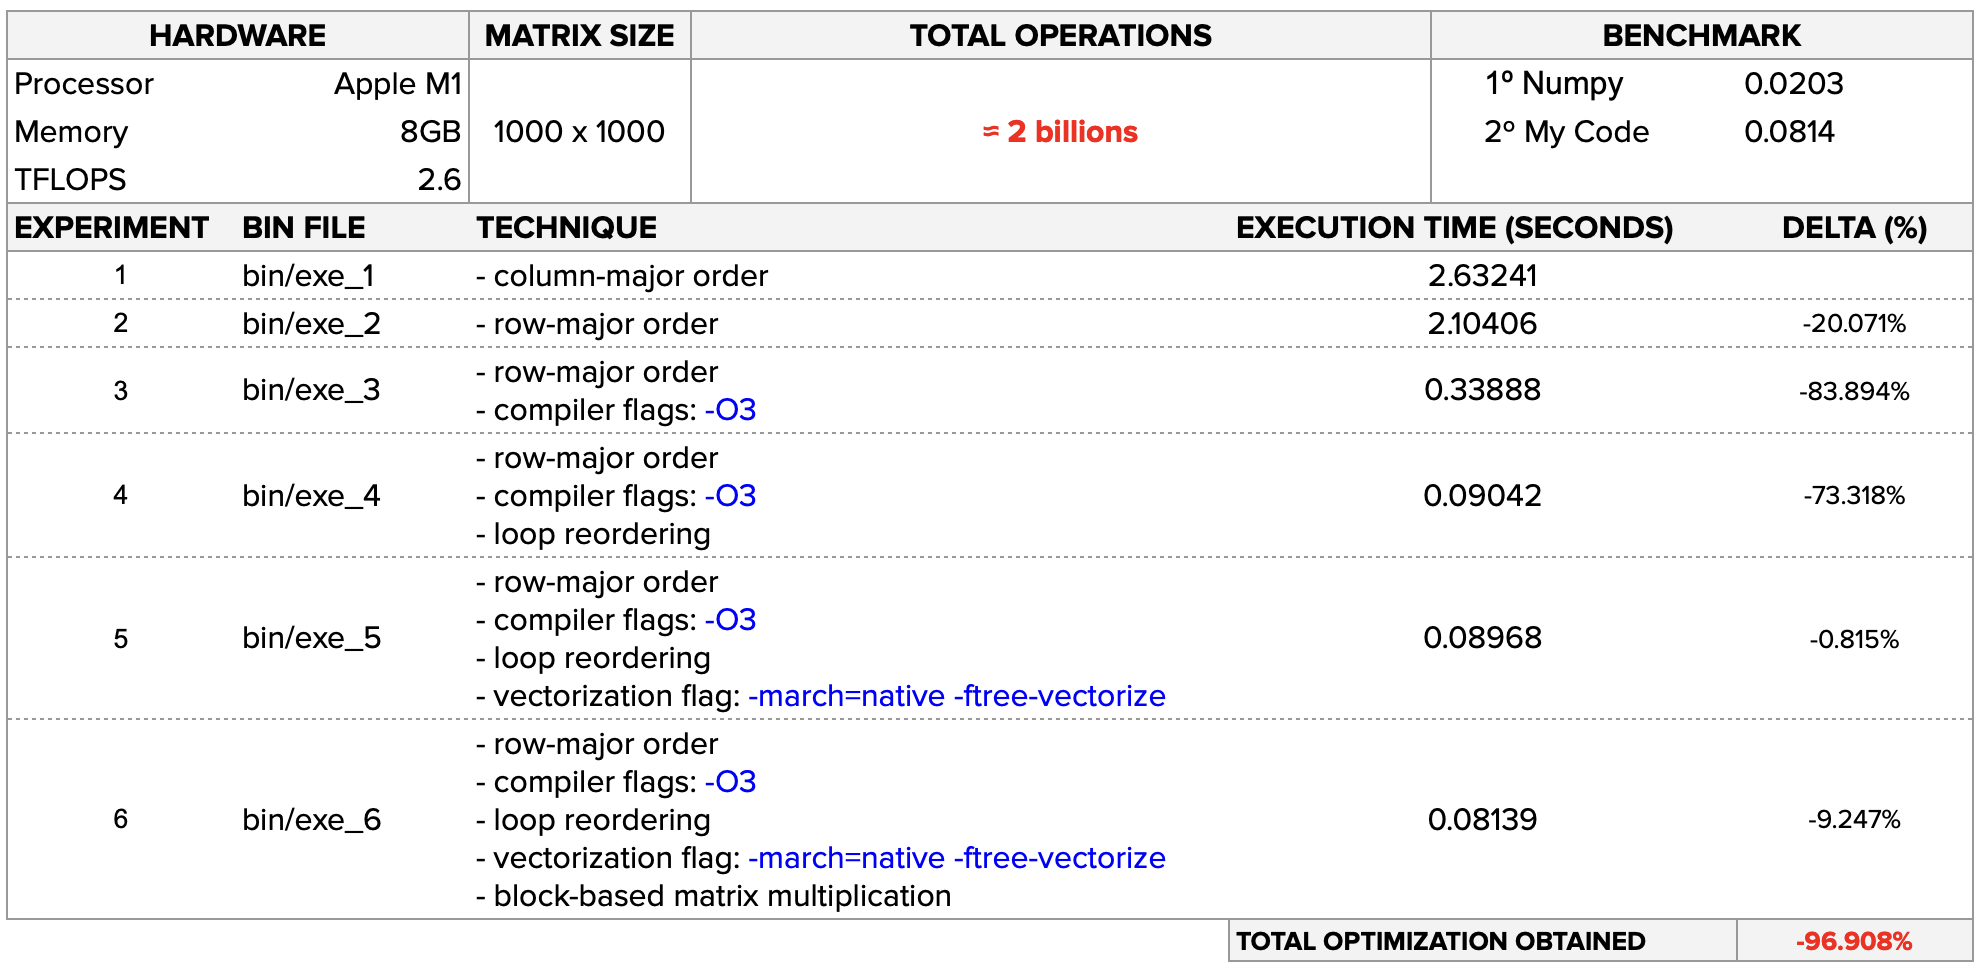
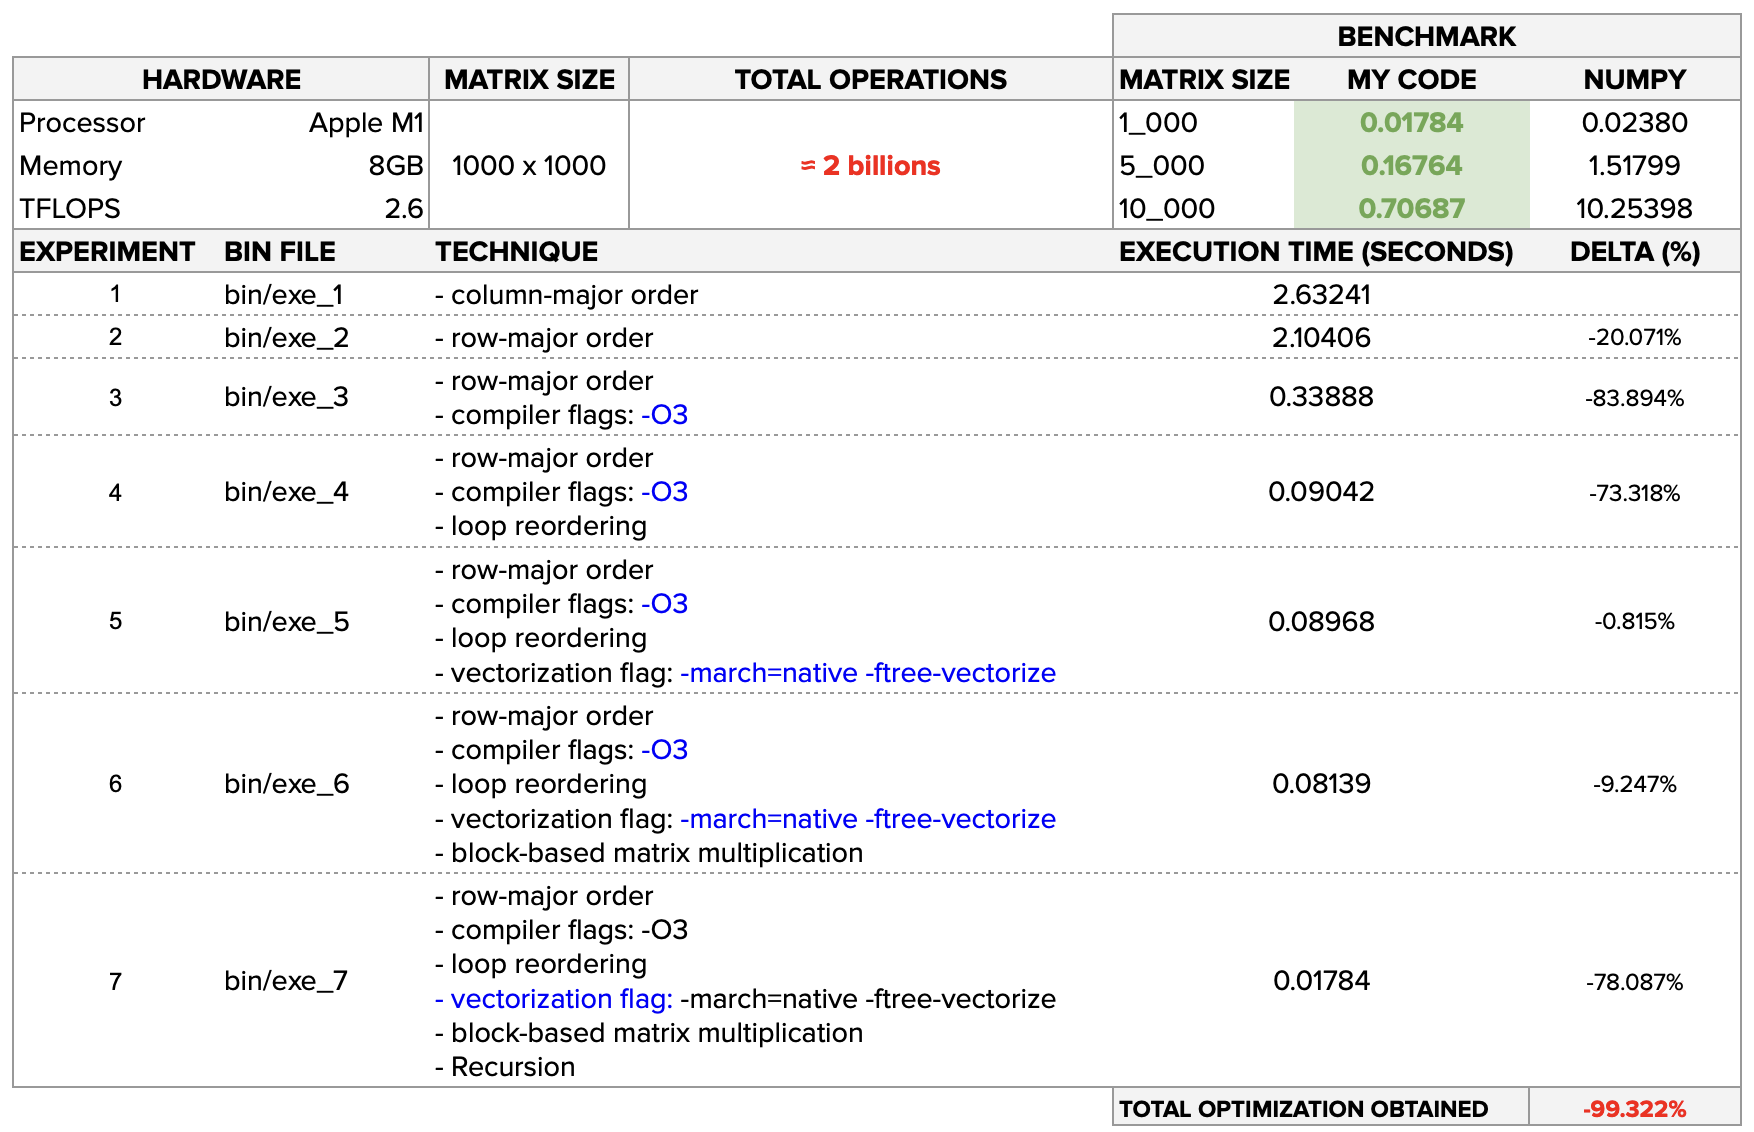
#1; updating readme

diff --git a/src/mat_mul_5.c b/src/mat_mul_5.c
@@ -9,9 +9,8 @@
 void matrix_multiply_recursive(int *A, int *B, int *C, int n) {
     if (n <= BLOCK_SIZE) {
         for (int i = 0; i < n; i++) {
-            for (int j = 0; j < n; j++) {
-                C[i * n + j] = 0;
-                for (int k = 0; k < n; k++) {
+            for (int k = 0; k < n; k++) {
+                for (int j = 0; j < n; j++) {
                     C[i * n + j] += A[i * n + k] * B[k * n + j];
                 }
             }

diff --git a/benchmark/mat_mul_numpy.py b/benchmark/mat_mul_numpy.py
@@ -1,7 +1,7 @@
 import numpy as np
 import time
 
-n = 1000
+n = 10_000
 matriz1 = np.random.uniform(0.0, 10.0, size=(n, n))
 matriz2 = np.random.uniform(0.0, 10.0, size=(n, n))
 
